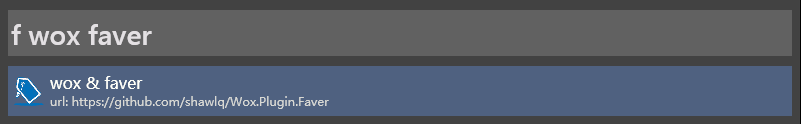
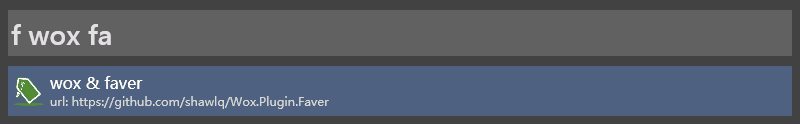
2.0.1

Changed region(s): [[0.1875, 0.7742, 0.4062, 0.871], [0.0, 0.629, 0.0625, 0.871], [0.125, 0.2419, 0.1875, 0.3629]]

diff --git a/README.md b/README.md
@@ -53,7 +53,7 @@
 ![](readme/f_wox.png)
 
 
-可以使用多**label**精确定位
+可以使用多**label**精确定位，并且它支持**模糊匹配**
 
 ![](readme/f_wox_faver.png)
 
